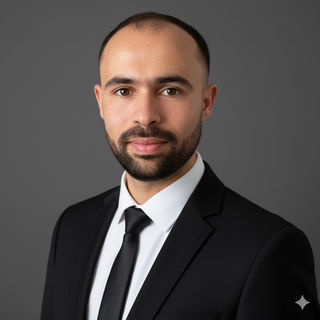
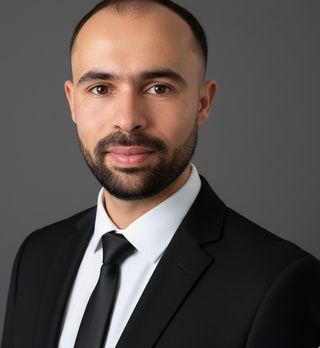
feat: premium hardening — SSR fallback, dynamic meta, canonical/hreflang, picture+focus, a11y/print, SEO files, analytics events

diff --git a/index.html b/index.html
@@ -13,7 +13,7 @@
   <link rel="alternate" hreflang="fr" href="/?lang=fr">
   <link rel="icon" href="/favicon.ico">
   <link rel="preload" as="font" href="assets/fonts/Inter-latin.woff2" type="font/woff2" crossorigin>
-  <link rel="preload" as="image" type="image/avif" href="assets/optimized/mabrouki-headshot-640.avif" imagesrcset="assets/optimized/mabrouki-headshot-320.avif 320w, assets/optimized/mabrouki-headshot-640.avif 640w, assets/optimized/mabrouki-headshot-960.avif 960w">
+  <link rel="preload" as="image" type="image/avif" href="assets/optimized/mabrouki-headshot-640.avif" imagesrcset="assets/optimized/mabrouki-headshot-320.avif 320w, assets/optimized/mabrouki-headshot-640.avif 640w">
   <link rel="stylesheet" href="styles.css">
   <meta property="og:site_name" content="Mohamed Ali Mabrouki">
   <meta property="og:title" content="Mohamed Ali Mabrouki | Automotive Homologation &amp; Chassis Leader">
@@ -39,7 +39,7 @@
       }catch(err){}
     })();
   </script>
-  <script type="application/ld+json">{"@context":"https://schema.org","@type":"Person","name":"Mohamed Ali Mabrouki","jobTitle":"Automotive Engineering Leader","url":"https://mohamedalimabrouki.com","image":"https://mohamedalimabrouki.com/assets/optimized/mabrouki-headshot-960.jpg","email":"mailto:contact@mohamedalimabrouki.com","telephone":"+21625910020","address":{"@type":"PostalAddress","addressLocality":"Tunis","addressCountry":"TN"},"sameAs":["https://www.linkedin.com/in/mohamedalimabrouki/"],"contactPoint":[{"@type":"ContactPoint","contactType":"Interview enquiries","email":"mailto:contact@mohamedalimabrouki.com","telephone":"+21625910020","areaServed":["TN","EU"],"availableLanguage":["English","French"]}]}</script>
+  <script type="application/ld+json">{"@context":"https://schema.org","@type":"Person","name":"Mohamed Ali Mabrouki","jobTitle":"Automotive Engineering Leader","url":"https://mohamedalimabrouki.com","image":"https://mohamedalimabrouki.com/assets/optimized/mabrouki-headshot-640.jpg","email":"mailto:contact@mohamedalimabrouki.com","telephone":"+21625910020","address":{"@type":"PostalAddress","addressLocality":"Tunis","addressCountry":"TN"},"sameAs":["https://www.linkedin.com/in/mohamedalimabrouki/"],"contactPoint":[{"@type":"ContactPoint","contactType":"Interview enquiries","email":"mailto:contact@mohamedalimabrouki.com","telephone":"+21625910020","areaServed":["TN","EU"],"availableLanguage":["English","French"]}]}</script>
   <script type="application/ld+json">{"@context":"https://schema.org","@type":"WebSite","name":"Mohamed Ali Mabrouki Portfolio","url":"https://mohamedalimabrouki.com","inLanguage":["en","fr"],"potentialAction":{"@type":"SearchAction","target":"https://mohamedalimabrouki.com/?search={search_term_string}","query-input":"required name=search_term_string"}}</script>
   <script defer data-domain="mohamedalimabrouki.com" src="https://plausible.io/js/script.js"></script>
 </head>
@@ -49,9 +49,9 @@
     <div class="wrap header-bar">
       <a class="brand" href="#top">
         <picture class="brand-avatar focus-img" style="--focus:50% 36%" data-src="assets/mabrouki-headshot.JPG">
-          <source type="image/avif" srcset="assets/optimized/mabrouki-headshot-320.avif 320w, assets/optimized/mabrouki-headshot-640.avif 640w, assets/optimized/mabrouki-headshot-960.avif 960w" sizes="120px">
-          <source type="image/webp" srcset="assets/optimized/mabrouki-headshot-320.webp 320w, assets/optimized/mabrouki-headshot-640.webp 640w, assets/optimized/mabrouki-headshot-960.webp 960w" sizes="120px">
-          <source type="image/jpeg" srcset="assets/optimized/mabrouki-headshot-320.jpg 320w, assets/optimized/mabrouki-headshot-640.jpg 640w, assets/optimized/mabrouki-headshot-960.jpg 960w" sizes="120px">
+          <source type="image/avif" srcset="assets/optimized/mabrouki-headshot-320.avif 320w, assets/optimized/mabrouki-headshot-640.avif 640w" sizes="120px">
+          <source type="image/webp" srcset="assets/optimized/mabrouki-headshot-320.webp 320w, assets/optimized/mabrouki-headshot-640.webp 640w" sizes="120px">
+          <source type="image/jpeg" srcset="assets/optimized/mabrouki-headshot-320.jpg 320w, assets/optimized/mabrouki-headshot-640.jpg 640w" sizes="120px">
           <img src="assets/mabrouki-headshot.JPG" alt="Portrait of Mohamed Ali Mabrouki" loading="eager" decoding="async" fetchpriority="high">
         </picture>
         <div class="brand-meta">
@@ -81,11 +81,11 @@
     <section class="hero" id="about">
       <div class="wrap hero-grid">
         <div class="hero-media">
-          <picture class="hero-portrait focus-img" style="--focus:50% 28%" data-src="assets/mabrouki-headshot.JPG">
-            <source type="image/avif" srcset="assets/optimized/mabrouki-headshot-320.avif 320w, assets/optimized/mabrouki-headshot-640.avif 640w, assets/optimized/mabrouki-headshot-960.avif 960w" sizes="(min-width: 960px) 420px, 90vw">
-            <source type="image/webp" srcset="assets/optimized/mabrouki-headshot-320.webp 320w, assets/optimized/mabrouki-headshot-640.webp 640w, assets/optimized/mabrouki-headshot-960.webp 960w" sizes="(min-width: 960px) 420px, 90vw">
-            <source type="image/jpeg" srcset="assets/optimized/mabrouki-headshot-320.jpg 320w, assets/optimized/mabrouki-headshot-640.jpg 640w, assets/optimized/mabrouki-headshot-960.jpg 960w" sizes="(min-width: 960px) 420px, 90vw">
-            <img src="assets/mabrouki-headshot.JPG" alt="Portrait of Mohamed Ali Mabrouki" loading="eager" decoding="async" fetchpriority="high">
+          <picture class="hero-portrait focus-img" style="--focus:50% 42%" data-src="assets/mabrouki-headshot.JPG">
+            <source type="image/avif" srcset="assets/optimized/mabrouki-headshot-320.avif 320w, assets/optimized/mabrouki-headshot-640.avif 640w" sizes="(min-width: 1024px) 360px, 80vw">
+            <source type="image/webp" srcset="assets/optimized/mabrouki-headshot-320.webp 320w, assets/optimized/mabrouki-headshot-640.webp 640w" sizes="(min-width: 1024px) 360px, 80vw">
+            <source type="image/jpeg" srcset="assets/optimized/mabrouki-headshot-320.jpg 320w, assets/optimized/mabrouki-headshot-640.jpg 640w" sizes="(min-width: 1024px) 360px, 80vw">
+            <img src="assets/mabrouki-headshot.JPG" alt="Headshot of Mohamed Ali Mabrouki" loading="eager" decoding="async" fetchpriority="high">
           </picture>
         </div>
         <div class="hero-content">
@@ -220,17 +220,17 @@
         <p id="filterStatus" class="muted" role="status" aria-live="polite" data-i18n-key="filter_status_default">Loading projects…</p>
         <div id="project-grid" class="grid project-grid" aria-live="polite" data-ssr>
           <!-- SSR fallback (will be replaced if JSON loads) -->
-          <a class="card" href="project.html?p=ec-homologation-toyota-proace-city">
+          <a class="card" href="project.html?p=ec-homologation-toyota-proace-city-k9t-n1">
             <picture class="focus-img"><img src="assets/proace-city.jpg" alt="EC Homologation — Toyota ProAce City"></picture>
-            <h4>EC Homologation — Toyota ProAce City</h4>
+            <h4>EC Homologation — Toyota ProAce City (K9T-N1)</h4>
             <p>WVTA/CoP stream, annexes &amp; evidence packs.</p>
           </a>
-          <a class="card" href="project.html?p=ec-homologation-peugeot-rifter-citroen-berlingo">
-            <picture class="focus-img"><img src="assets/rifter.jpg" alt="EC Homologation — Peugeot Rifter &amp; Citroën Berlingo"></picture>
-            <h4>EC Homologation — Peugeot Rifter &amp; Citroën Berlingo</h4>
+          <a class="card" href="project.html?p=ec-homologation-psa-k9g-n1">
+            <picture class="focus-img"><img src="assets/rifter.jpg" alt="EC Homologation — PSA K9G-N1"></picture>
+            <h4>EC Homologation — PSA K9G-N1</h4>
             <p>Rifter/Berlingo stream; variant matrix &amp; DoC.</p>
           </a>
-          <a class="card" href="project.html?p=renault-master-axles-wheel-assembly">
+          <a class="card" href="project.html?p=renault-master-xdd-axles">
             <picture class="focus-img"><img src="assets/renault-master.jpg" alt="XDD — Axles &amp; Wheel-End (Renault Master)"></picture>
             <h4>XDD — Axles &amp; Wheel-End (Renault Master)</h4>
             <p>Gen3 hub bearing, QCDP, EoL checks.</p>
@@ -277,7 +277,7 @@
           </div>
           <div>
             <h4 data-i18n-key="contact_phone_label">Phone / WhatsApp</h4>
-            <a href="https://wa.me/21625910020" target="_blank" rel="noopener">+216 25 910 020</a>
+            <a href="https://wa.me/21625910020" target="_blank" rel="noopener">25 910 020</a>
           </div>
           <div>
             <h4 data-i18n-key="contact_linkedin_label">LinkedIn</h4>

diff --git a/project.html b/project.html
@@ -9,7 +9,7 @@
   <link id="canonical" rel="canonical" href="/">
   <link rel="icon" href="/favicon.ico">
   <link rel="preload" as="font" href="assets/fonts/Inter-latin.woff2" type="font/woff2" crossorigin>
-  <link rel="preload" as="image" type="image/avif" href="assets/optimized/mabrouki-headshot-640.avif" imagesrcset="assets/optimized/mabrouki-headshot-320.avif 320w, assets/optimized/mabrouki-headshot-640.avif 640w, assets/optimized/mabrouki-headshot-960.avif 960w">
+  <link rel="preload" as="image" type="image/avif" href="assets/optimized/mabrouki-headshot-640.avif" imagesrcset="assets/optimized/mabrouki-headshot-320.avif 320w, assets/optimized/mabrouki-headshot-640.avif 640w">
   <link rel="stylesheet" href="styles.css">
   <meta property="og:title" content="">
   <meta property="og:type" content="article">
@@ -35,7 +35,7 @@
       }catch(err){}
     })();
   </script>
-  <script type="application/ld+json">{"@context":"https://schema.org","@type":"Person","name":"Mohamed Ali Mabrouki","jobTitle":"Automotive Engineering Leader","url":"https://mohamedalimabrouki.com","image":"https://mohamedalimabrouki.com/assets/optimized/mabrouki-headshot-960.jpg","email":"mailto:contact@mohamedalimabrouki.com","telephone":"+21625910020","sameAs":["https://www.linkedin.com/in/mohamedalimabrouki/"]}</script>
+  <script type="application/ld+json">{"@context":"https://schema.org","@type":"Person","name":"Mohamed Ali Mabrouki","jobTitle":"Automotive Engineering Leader","url":"https://mohamedalimabrouki.com","image":"https://mohamedalimabrouki.com/assets/optimized/mabrouki-headshot-640.jpg","email":"mailto:contact@mohamedalimabrouki.com","telephone":"+21625910020","sameAs":["https://www.linkedin.com/in/mohamedalimabrouki/"]}</script>
   <script type="application/ld+json" id="ld-breadcrumb">{}</script>
   <script defer data-domain="mohamedalimabrouki.com" src="https://plausible.io/js/script.js"></script>
 </head>
@@ -45,9 +45,9 @@
     <div class="wrap header-bar">
       <a class="brand" href="index.html#top">
         <picture class="brand-avatar focus-img" style="--focus:50% 42%" data-src="assets/mabrouki-headshot.JPG">
-          <source type="image/avif" srcset="assets/optimized/mabrouki-headshot-320.avif 320w, assets/optimized/mabrouki-headshot-640.avif 640w, assets/optimized/mabrouki-headshot-960.avif 960w" sizes="120px">
-          <source type="image/webp" srcset="assets/optimized/mabrouki-headshot-320.webp 320w, assets/optimized/mabrouki-headshot-640.webp 640w, assets/optimized/mabrouki-headshot-960.webp 960w" sizes="120px">
-          <source type="image/jpeg" srcset="assets/optimized/mabrouki-headshot-320.jpg 320w, assets/optimized/mabrouki-headshot-640.jpg 640w, assets/optimized/mabrouki-headshot-960.jpg 960w" sizes="120px">
+          <source type="image/avif" srcset="assets/optimized/mabrouki-headshot-320.avif 320w, assets/optimized/mabrouki-headshot-640.avif 640w" sizes="120px">
+          <source type="image/webp" srcset="assets/optimized/mabrouki-headshot-320.webp 320w, assets/optimized/mabrouki-headshot-640.webp 640w" sizes="120px">
+          <source type="image/jpeg" srcset="assets/optimized/mabrouki-headshot-320.jpg 320w, assets/optimized/mabrouki-headshot-640.jpg 640w" sizes="120px">
           <img src="assets/mabrouki-headshot.JPG" alt="Portrait of Mohamed Ali Mabrouki" loading="eager" decoding="async">
         </picture>
         <div class="brand-meta">

diff --git a/styles.css b/styles.css
@@ -81,6 +81,10 @@ body{
   transition:background 0.4s ease,color 0.4s ease;
 }
 
+main{
+  padding-top:calc(var(--spacing-4) + 12px);
+}
+
 img{max-width:100%;display:block;}
 
 a{
@@ -142,7 +146,13 @@ a:focus-visible{outline:2px solid var(--accent);outline-offset:4px;}
   box-shadow:var(--shadow-md);
   border:1px solid var(--stroke);
 }
-.brand-avatar img{width:100%;height:100%;object-fit:cover;object-position:var(--focus,50% 50%);}
+.brand-avatar img{
+  width:100%;
+  height:100%;
+  object-fit:cover;
+  object-position:var(--focus,50% 50%);
+  pointer-events:none;
+}
 .brand-meta h1{margin:0;font-size:1.4rem;color:var(--ink-strong);letter-spacing:-0.01em;}
 .brand-label{
   font-size:0.7rem;
@@ -201,24 +211,36 @@ a:focus-visible{outline:2px solid var(--accent);outline-offset:4px;}
 .chip.ghost{background:transparent;}
 
 .hero{
-  padding:var(--spacing-8) 0 var(--spacing-7);
+  padding:var(--spacing-6) 0 var(--spacing-6);
 }
 .hero-grid{
   display:grid;
   grid-template-columns:repeat(2,minmax(0,1fr));
-  gap:var(--spacing-8);
+  gap:var(--spacing-7);
   align-items:center;
 }
 .hero-media{display:flex;justify-content:center;}
 .hero-portrait{
-  width:min(420px,100%);
-  aspect-ratio:3/4;
+  position:relative;
+  width:min(380px,100%);
+  aspect-ratio:5/6;
+  height:auto;
   border-radius:var(--radius-lg);
   overflow:hidden;
   box-shadow:var(--shadow-xl);
-  border:1px solid rgba(255,255,255,0.06);
+  border:1px solid rgba(255,255,255,0.08);
+  background:linear-gradient(180deg, rgba(7,9,13,0.35) 0%, rgba(7,9,13,0.65) 100%);
 }
-.hero-portrait img{width:100%;height:100%;object-fit:cover;object-position:var(--focus,50% 50%);}
+.hero-portrait::after{
+  content:"";
+  position:absolute;
+  inset:0;
+  background:
+    radial-gradient(42% 38% at 84% 90%, rgba(7,9,13,0.78) 0%, rgba(7,9,13,0.58) 40%, transparent 72%);
+  pointer-events:none;
+  mix-blend-mode:multiply;
+}
+.hero-portrait img{width:100%;height:100%;object-fit:cover;object-position:var(--focus,50% 50%);filter:saturate(1.05);}
 
 .hero-content h2{
   margin:0 0 var(--spacing-4);
@@ -237,7 +259,7 @@ a:focus-visible{outline:2px solid var(--accent);outline-offset:4px;}
 .lead{margin:0 0 var(--spacing-4);font-size:1.1rem;color:var(--ink-body);} 
 .availability{margin:0 0 var(--spacing-4);color:var(--ink-muted);font-weight:500;}
 .hero-highlights{
-  margin:0 0 var(--spacing-6);
+  margin:0 0 var(--spacing-5);
   padding:0;
   list-style:none;
   display:grid;
@@ -293,7 +315,7 @@ a:focus-visible{outline:2px solid var(--accent);outline-offset:4px;}
 .link-cta:hover::after{transform:translateX(4px);}
 
 .hero-panels{
-  margin-top:var(--spacing-9);
+  margin-top:var(--spacing-7);
 }
 .panel-title{margin:0 0 var(--spacing-4);font-size:1.1rem;color:var(--ink-muted);text-transform:uppercase;letter-spacing:0.16em;}
 .panel-grid{
@@ -325,7 +347,12 @@ a:focus-visible{outline:2px solid var(--accent);outline-offset:4px;}
   gap:var(--spacing-6);
 }
 .grid--cols-2{grid-template-columns:repeat(auto-fit,minmax(280px,1fr));}
-.project-grid{grid-template-columns:repeat(auto-fit,minmax(280px,1fr));gap:var(--spacing-6);}
+.project-grid{grid-template-columns:repeat(auto-fit,minmax(280px,1fr));gap:var(--spacing-6);padding-top:var(--spacing-3);}
+.project-grid .card{
+  scroll-margin-top:140px;
+  position:relative;
+  z-index:95;
+}
 .project-columns{
   display:grid;
   gap:var(--spacing-6);

diff --git a/script.js b/script.js
@@ -304,6 +304,11 @@ function enableFocusDev(context = document) {
 function refreshImageEnhancements(context = document) {
   observeReveals(context);
   enableFocusDev(context);
+  context.querySelectorAll('picture.focus-img').forEach(pic => {
+    if (!pic.dataset.optimized) {
+      pic.dataset.optimized = '1';
+    }
+  });
 }
 
 function initFocusPanel() {
